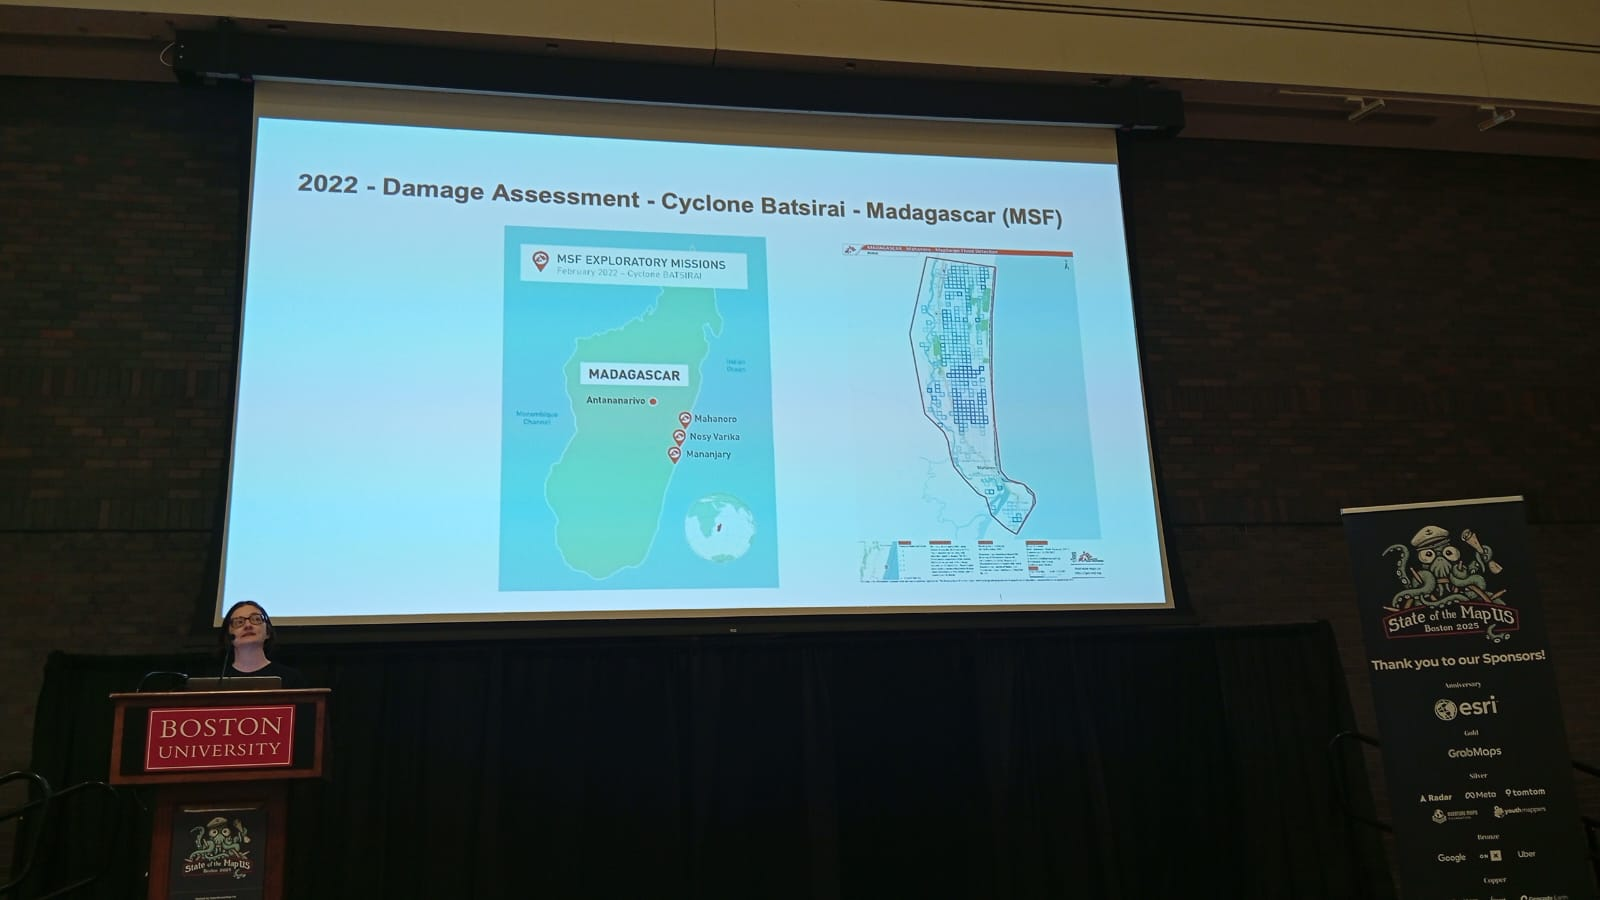
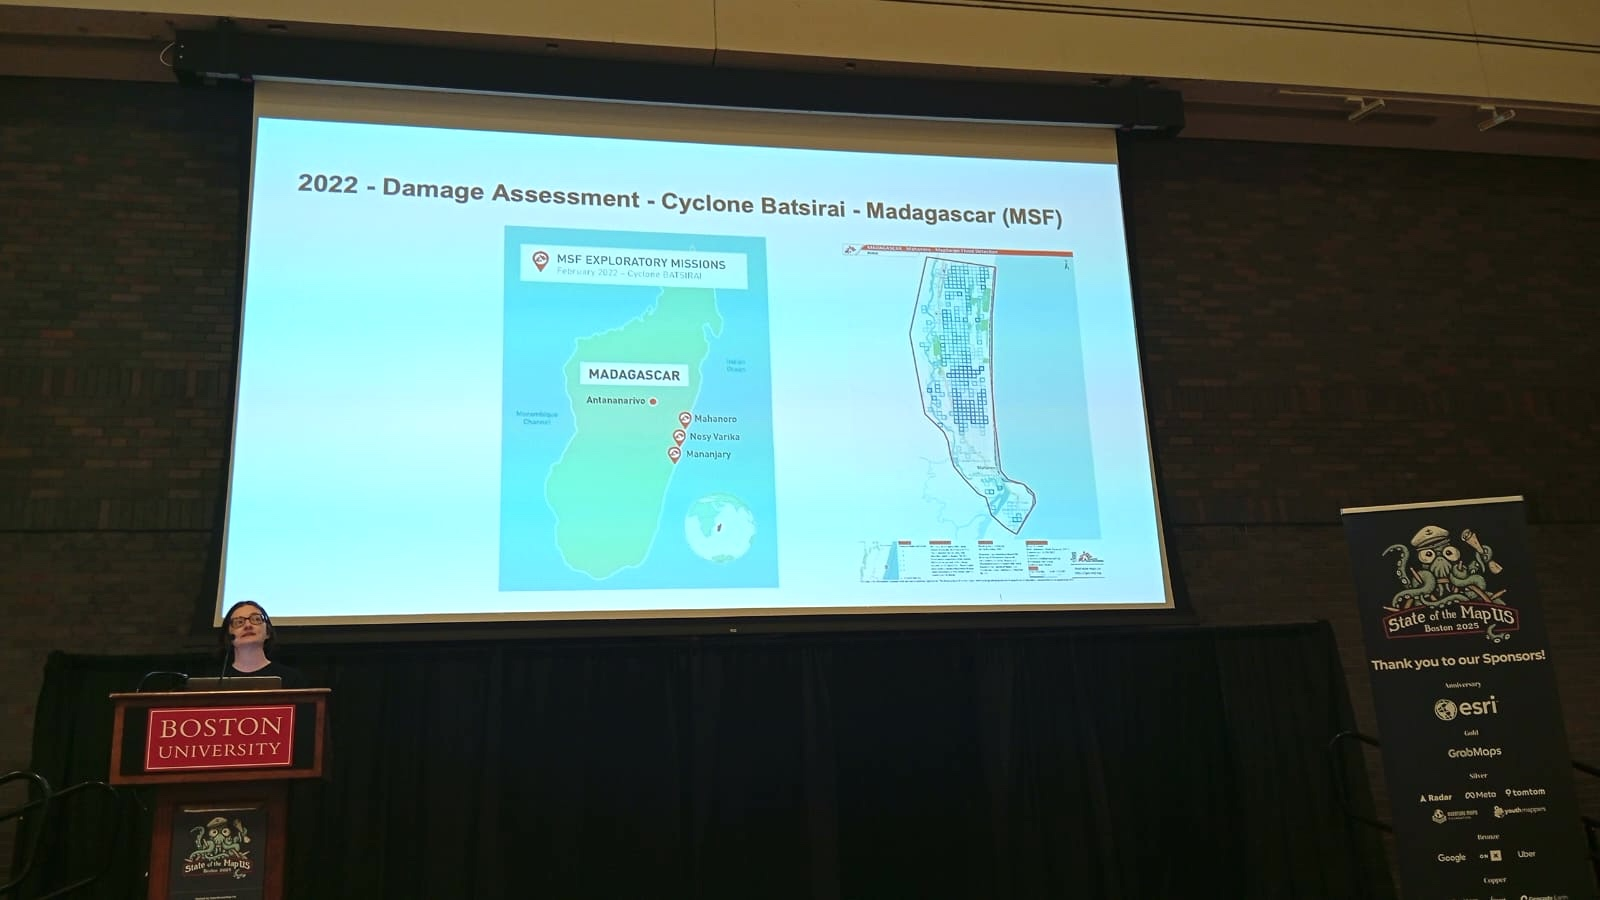
Updated MapSwipe future talk and images

diff --git a/content/talks/2025-sotm-us-mapswipe-and-its-future-in-osm/index.md b/content/talks/2025-sotm-us-mapswipe-and-its-future-in-osm/index.md
@@ -1,18 +1,30 @@
 ---
-title: "[Upcoming] 2025 State of the Map US - MapSwipe Today and Its Future in OSM"
-description: "A launch party for MapSwipe4Web"
+title: "2025 State of the Map US - MapSwipe Today and Its Future in OSM"
+description: "A talk about MapSwipe and it's future in OSM"
 layout: "single"
 draft: false
-date: 2025-03-20
+date: 2025-07-03
 tags: ["Mapping", "OpenStreetMap", "Open Data", "MapSwipe"]
-coverCaption: "What will happen with MapSwipe? You'll have to come to this talk to find out. 😊"
-coverAlt: "A placeholder image for my talk at State of the Map US 2025."
-featureAlt: "What will happen with MapSwipe? You'll have to come to this talk to find out. 😊"
-thumbnailAlt: "A placeholder image for my talk at State of the Map US 2025."
+coverCaption: "Presenting on a MapSwipe past use case. Photo by Juan Carlos Melo Luna. 😊"
+coverAlt: "Nicole Siggins stands at a podium, presenting a past MapSwipe use case."
+featureAlt: "Nicole Siggins stands at a podium, presenting a past MapSwipe use case."
+thumbnailAlt: "Presenting on a MapSwipe past use case. Photo by Juan Carlos Melo Luna. 😊."
 ---
 
-I'm excited to be presenting at State of the Map US in Boston on June 21, 2025 about MapSwipe and it's future in OSM. 
+I presented my talk, “MapSwipe Today and Its Future in OSM” on Saturday, June 21th at 13:45 local time in the Metcalf Large Ballroom at Boston University’s George Sherman Union.
+
+## [Talk synopsis](https://whova.com/embedded/session/hDeQXpxoDgWux-bVAy3MI1xD65j3yq9pnQuXjZnYCNA%3D/4651304/?widget=primary)
 
 
+MapSwipe is a mobile and web app that enables crowdsourced data collection for OpenStreetMap (OSM). Today, MapSwipe helps prioritize mapping efforts by identifying areas needing updates. This talk will explore future possibilities for exploring expanding its role, including potentially allowing direct edits to OSM and strengthening ties with the OSM community for more seamless contributions. Feedback on these ideas is welcome!
+
+{{< button href="https://docs.google.com/presentation/d/1L2LZmPlgjGFVl_ycwHurDgaD88L6T0XSN1b7V2oHLKk/edit?slide=id.p#slide=id.p" target="_blank" >}}
+View the presentation slides
+{{< /button >}}
 
 
+Most importantly, I'd love to hear ideas and feedback about the idea of MapSwipe becoming it's own OSM editor (and including potential machine learning into the mix) from others in the OpenStreetMap community. There is an OSM diary entry where you can add your thoughts.
+
+{{< button href="https://www.openstreetmap.org/user/Nicolelaine/diary/406967" target="_blank" >}}
+Join the discussion
+{{< /button >}}
